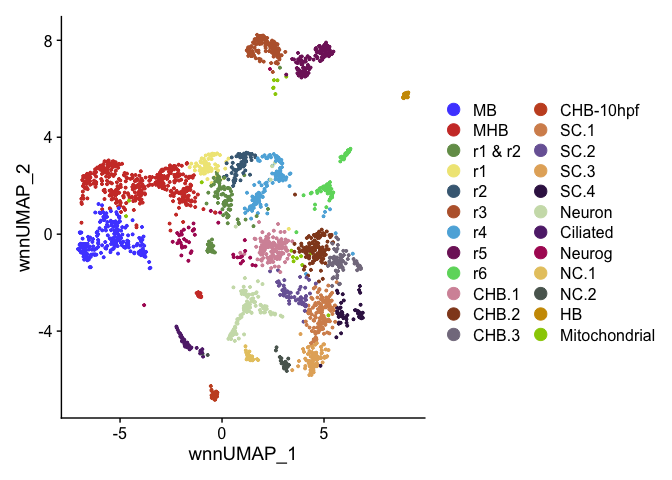
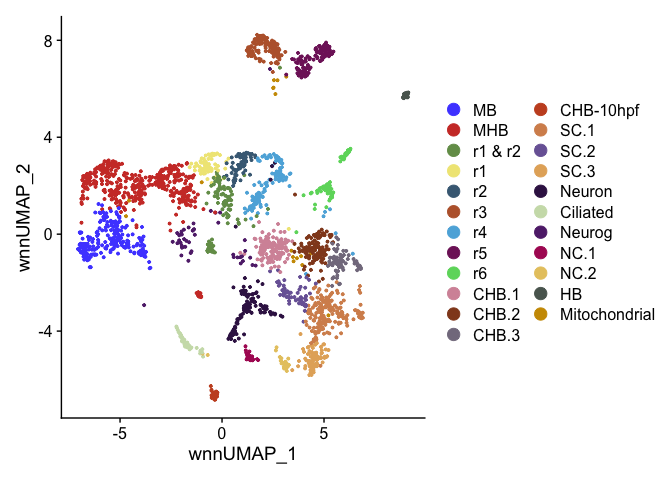
fix error in HB.int cluster name in Fig2

diff --git a/Figures/Figure2.md b/Figures/Figure2.md
@@ -136,7 +136,8 @@ HB13hpf so no need to rename. See Match_CHB_SC_Cluster_Names.
 Idents(HB.int) <- "intClusters"
 HB.int <- RenameIdents(HB.int,
                        "SC.2" = "oldSC.2",
-                       "SC.3" = "oldSC.3")
+                       "SC.3" = "oldSC.3",
+                       "SC.4" = "oldSC.4")
 HB.int <- RenameIdents(HB.int,
                        "r1&r2.1" = "r1 & r2",
                        "r1&r2.2" = "r1 & r2",
@@ -163,9 +164,10 @@ HB.int <- RenameIdents(HB.int,
                        "CaudHB.3" = "CHB.3",
                        "CaudHB.4" = "CHB-10hpf",
                        "oldSC.2" = "SC.3",
-                       "oldSC.3" = "SC.2")
+                       "oldSC.3" = "SC.2",
+                       "oldSC.4" = "SC.1")
 levels(HB.int) <- c("MB","MHB","r1 & r2","r1","r2","r3","r4","r5","r6",           
-                  "CHB.1","CHB.2","CHB.3","CHB-10hpf","SC.1","SC.2","SC.3","SC.4",
+                  "CHB.1","CHB.2","CHB.3","CHB-10hpf","SC.1","SC.2","SC.3",
                   "Neuron","Ciliated","Neurog","NC.1","NC.2","HB","Mitochondrial")
 umap.HBint <- DimPlot(HB.int, reduction = "wnn.umap") + scale_color_igv() + 
   guides(color = guide_legend(override.aes = list(size=4), ncol=2) )

diff --git a/Figures/Match_CHB_SC_Cluster_Names.md b/Figures/Match_CHB_SC_Cluster_Names.md
@@ -1,3 +1,9 @@
+---
+output:
+  word_document: default
+  html_document: default
+  pdf_document: default
+---
 R Match CHB cluster names between samples so CHB.1 et al are the same
 cell type in each
 ================
